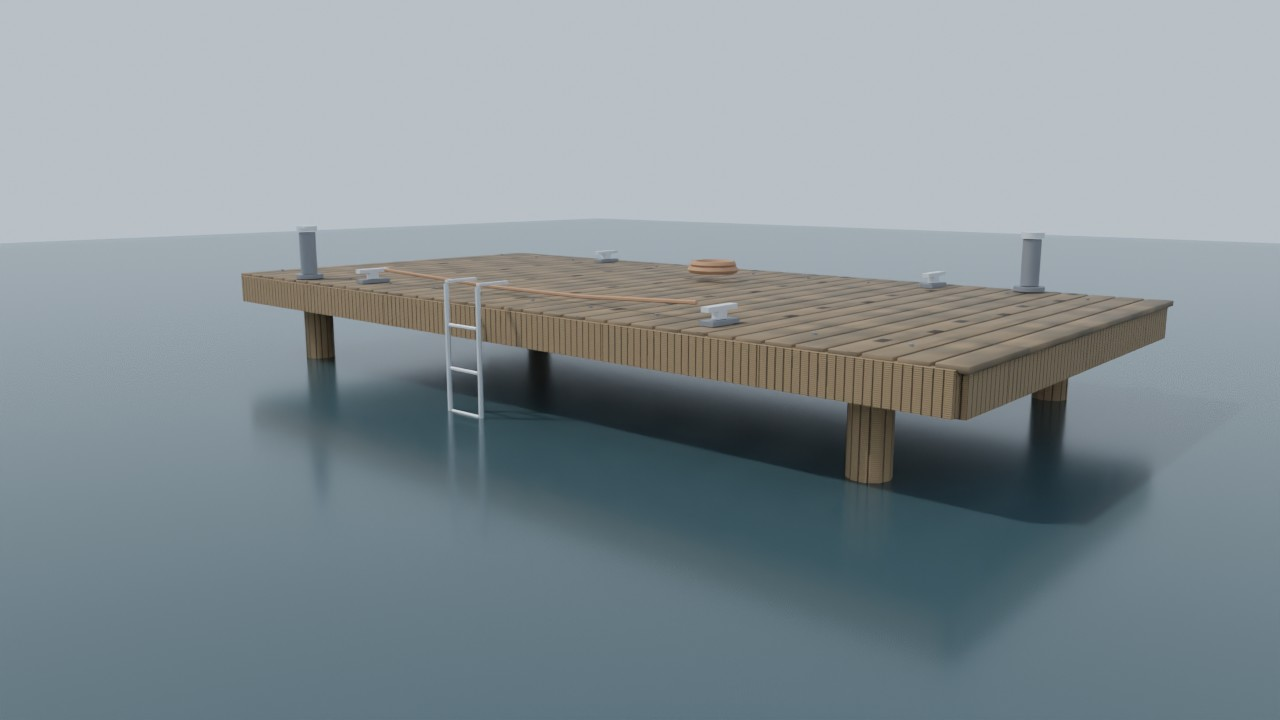
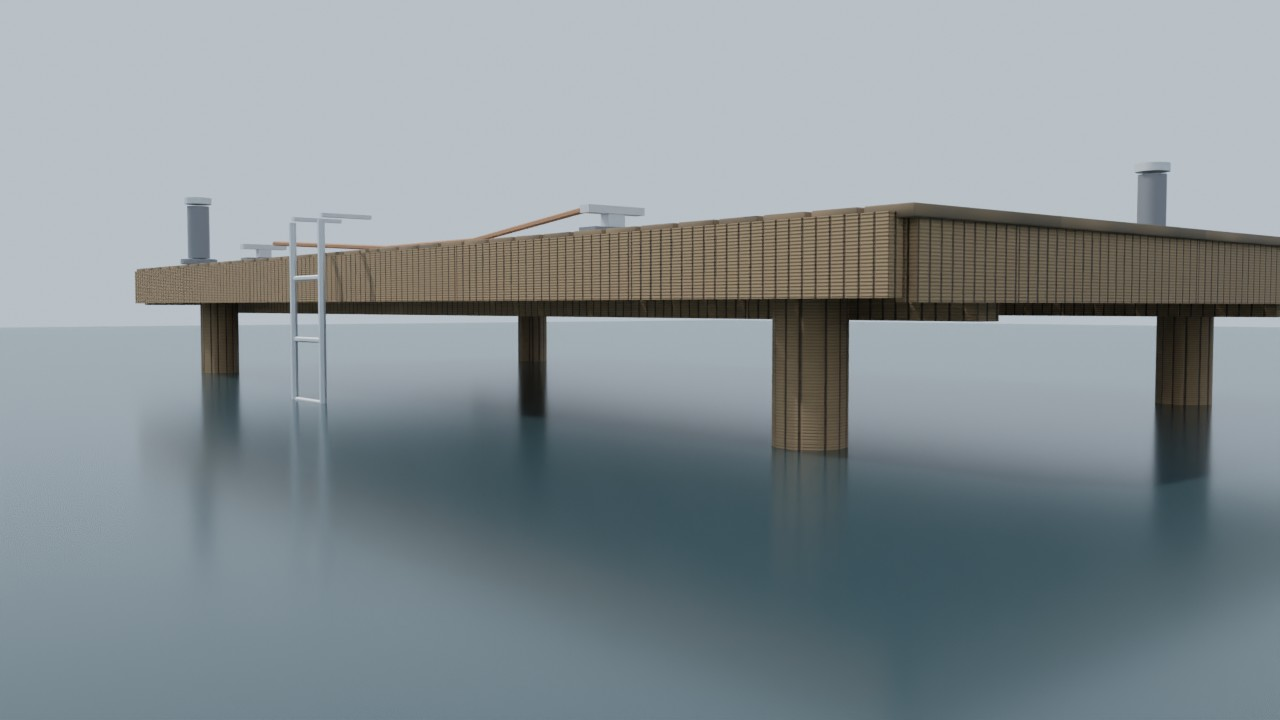
Shoot the pass 22 stills and lower the dock camera.
JPEG quality 90 at 1280x720. The dock hero sits on the lit side so the pile row, braces, ladder, and rope read; the before still uses that same camera on the previous mesh.

diff --git a/Tools/Blender/AssetLibrary/render_pass22.py b/Tools/Blender/AssetLibrary/render_pass22.py
@@ -26,8 +26,8 @@ _CABIN = (32.0, (8.2, 5.5, 8.6), (0.3, 2.0, 0.2), 32.0, (0.34, 0.36, 0.32))
 _JUNCTION_CAM = ((6.4, 3.9, 15.4), (0.0, 0.20, 8.6), 36.0)
 _JUNCTION_GROUND = (0.16, 0.18, 0.14)
 _ROAD_AT = 13.0
-# Ladder side (-X) toward the camera, low enough to see piles and bracing.
-_DOCK = ((-5.2, 1.35, 4.6), (-0.3, 0.15, 0.2), 28.0, (0.22, 0.28, 0.26))
+# Low on the lit side so the pile row, stringers, ladder, and rope all read.
+_DOCK = ((-3.6, 0.38, 4.6), (0.2, 0.10, 0.0), 32.0, (0.22, 0.28, 0.26))
 
 
 def _jpg(scene, path):
@@ -172,7 +172,7 @@ def _shots(found):
         lambda c=cam, a=aim, g=gnd: _runner(
             found, [("Dock_Straight", (0.0, 0.0, 0.0), 0.0, 1.0)],
             (0.15, 0.62, 0.35), 40.0,
-            (-3.8, 1.25, 3.6), (-0.2, 0.25, 0.1), 32.0,
+            (-3.4, 0.95, 4.2), (0.15, 0.28, 0.1), 30.0,
             os.path.join(STILL_DIR, "dock_runner.jpg"),
             g,
             water=True,
